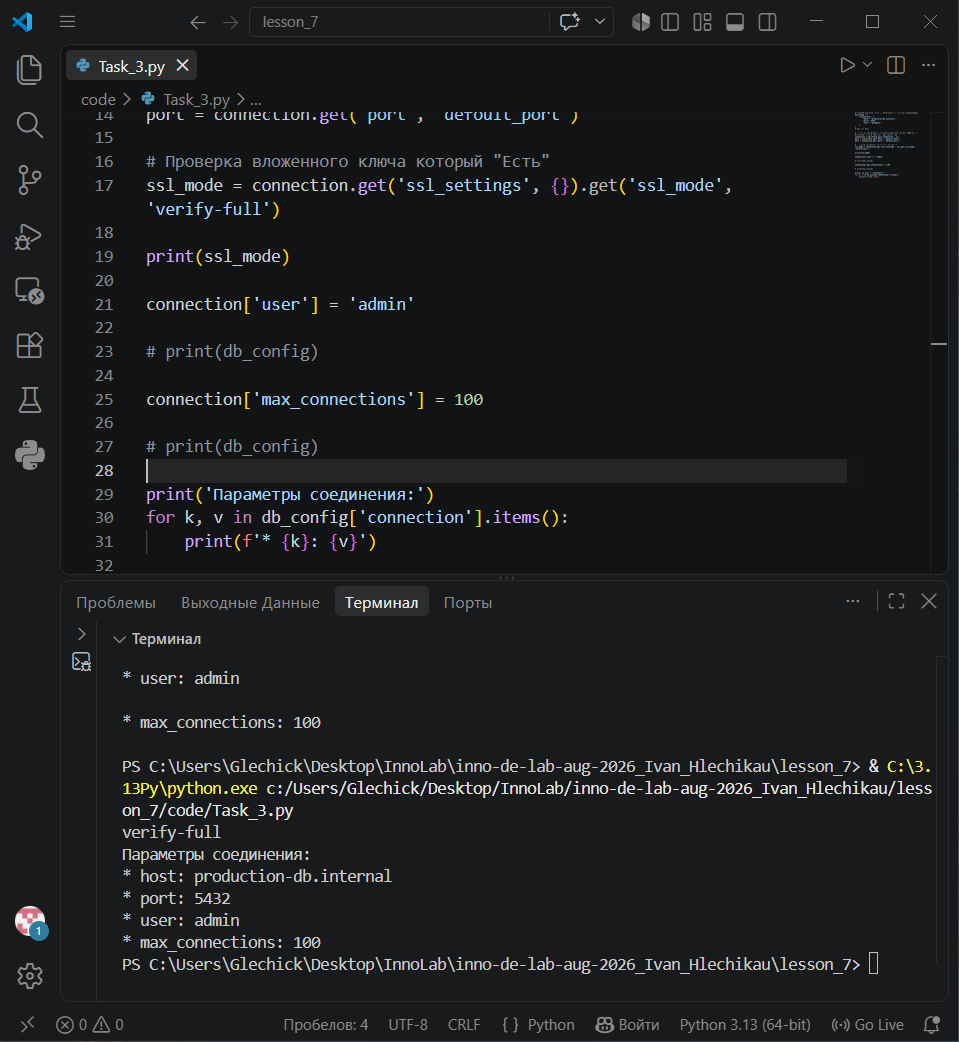
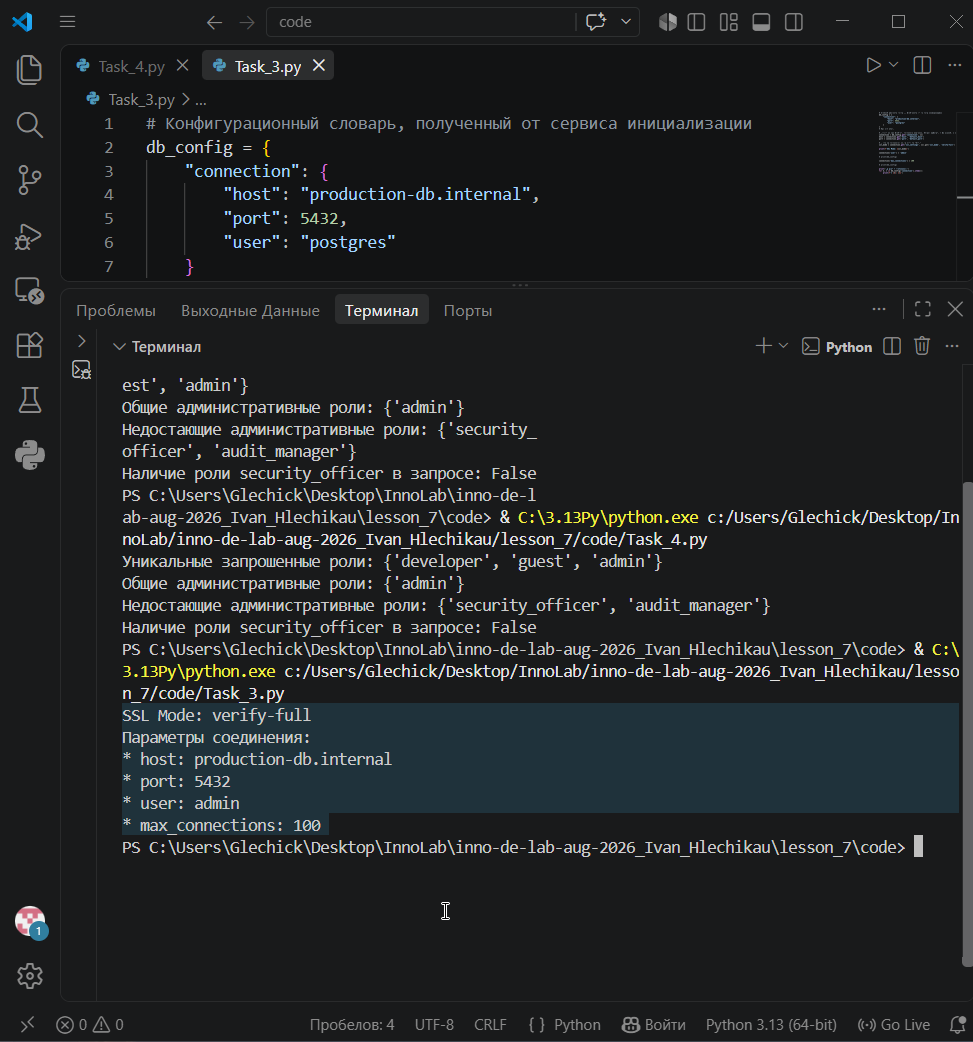
Исправлены замечания по заданию, обнавлены скриншоты

diff --git a/lesson_7/code/Task_4.py b/lesson_7/code/Task_4.py
@@ -1,8 +1,8 @@
 # Список ролей, переданный в запросе на авторизацию (содержит повторы)
 requested_roles = ["guest", "developer", "guest", "admin",
 "developer", "guest"]
-# Набор обязательных ролей для выполнения административных функций
 
+# Набор обязательных ролей для выполнения административных функций
 required_admin_roles = {"admin", "security_officer",
 "audit_manager"}
 # Ваш код здесь
@@ -13,7 +13,7 @@ print(f'Уникальные запрошенные роли: {set_requested_rol
 repeated = set_requested_roles & set(required_admin_roles)
 print(f'Общие административные роли: {repeated}')
 
-missing = set_requested_roles - set(required_admin_roles)
+missing = set(required_admin_roles) - set_requested_roles
 print(f'Недостающие административные роли: {missing}')
 
 has_security_officer = 'security_officer' in set_requested_roles

diff --git a/lesson_7/code/Task_1.py b/lesson_7/code/Task_1.py
@@ -6,7 +6,7 @@ raw_user_record = " 10827 ; aLeXanDer_vLaDimiRov ; mInSk ; ACTIVE "
 clean_strings = [item.strip() for item in raw_user_record.split(';')]
 
 # Не особо понял то ворматирование или нет, но в лекции есть форматирование f-строкой
-print(f'UID-{clean_strings[0]}')
+# print(f'UID-{clean_strings[0]}')
 
 # Или полностью изменить
 # Преобразование имени

diff --git a/lesson_7/code/Task_3.py b/lesson_7/code/Task_3.py
@@ -16,7 +16,7 @@ port = connection.get('port', 'defoult_port')
 # Проверка вложенного ключа который "Есть"
 ssl_mode = connection.get('ssl_settings', {}).get('ssl_mode', 'verify-full')
 
-print(ssl_mode)
+print(f'SSL Mode: {ssl_mode}')
 
 connection['user'] = 'admin'
 

diff --git a/lesson_7/code/Task_5.py b/lesson_7/code/Task_5.py
@@ -32,7 +32,7 @@ max_RAM = max(s['ram_usage'] for s in filtred_data)
 # print(max_RAM)
 
 final_data = {
-    'active_node_count': len(filtred_data),
+    'active_nodes_count': len(filtred_data),
     'metrics':{
         'average_cpu': round(avg_CPU, 2),
         'max_ram': max_RAM
